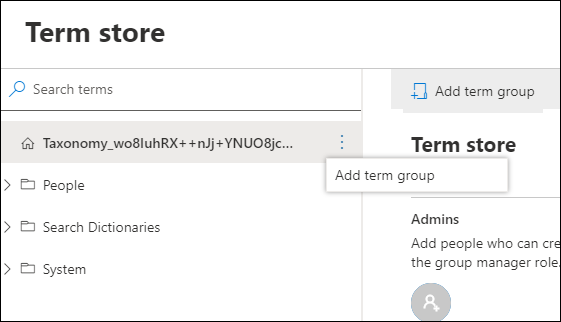
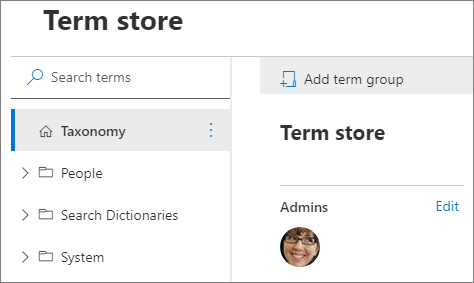
MMS content updates

diff --git a/SharePoint/SharePointOnline/set-up-new-group-for-term-sets.md b/SharePoint/SharePointOnline/set-up-new-group-for-term-sets.md
@@ -1,13 +1,11 @@
 ---
 title: "Set up a new group for term sets"
-ms.reviewer: vrchowdh
+ms.reviewer: anfra
 ms.author: mikeplum
 author: MikePlumleyMSFT
 manager: pamgreen
-ms.date: 5/27/2020
 audience: End User
-f1.keywords:
-- NOCSH
+f1.keywords: NOCSH
 ms.topic: article
 ms.service: sharepoint-online
 localization_priority: Normal
@@ -21,29 +19,23 @@ description: "Learn how easy it is to create a group for a collection of terms i
 
 # Set up a new group for term sets
 
-In the Term Store Management Tool, a group is a set of term sets that all share common security requirements. Only users who are designated as Contributors to a specific group can manage term sets that belong to the group or create new term sets within it. Organizations should create unique groups for term sets that will have unique access or security needs. For info about how to create a term set, see [Set up a new term set](set-up-new-term-set.md). 
+A term group is a set of term sets that all share common security requirements. Only users who are designated as contributors to a specific group can manage term sets that belong to the group or create new term sets within it. Organizations should create unique groups for term sets that will have unique access or security needs. For information about how to create a term set, see [Set up a new term set](set-up-new-term-set.md). 
   
 > [!IMPORTANT]
->  To create a new term set group, you must be a Term Store admin. 
-  
-![Screenshot of navigation pane in Term Store Management Tool, showing the New Group menu item selected](media/add-term-group.png)
+>  To create a new term set group, you must be a term store admin. 
   
 To set up a new group for term sets, follow these steps.
    
-1. [Open the Term Store management tool](open-term-store-management-tool.md).
+1. In the SharePoint admin center, under **Content services**, click **Term store**.
     
-2. In the tree view pane, select the taxonomy. Then point to it, select the arrow that appears, and then select **Add term group**.
-    
+2. In the right pane, click **Add term group**.
+
+    ![Screenshot of navigation pane in Term Store Management Tool, showing the New Group menu item](media/add-term-group.png)    
+
 3. Enter a name for your new group, and then press ENTER.
     
-4. To edit the Term group **name** and **description**, select **Edit**. The **Edit name and description** panel appears. Enter a description to help users understand the purpose of this term group. Select **Save**. 
+4. To edit the Term group **name** and **description**, select **Edit** next to the group name. The **Edit name and description** panel appears. Enter a description to help users understand the purpose of this term group. Select **Save**. 
     
-5. To edit **Group Managers**, select **Edit**. The **Edit admins** panel appears. Enter a name or email address to create new term groups, and set and assign users to the group manager role. Select **Save**.
-    
-6.  To edit **Contributors**, select **Edit**. The **Edit admins** panel appears. Enter a name or email address to create new term groups, and set and assign users to the group manager role. Select **Save**.
-    
-7. To copy the unique identifier for this term group, select **Copy**.
-    
-> [!NOTE]
->  To add term set, rename term group, delete term group, or import a term set, to the right of the group name, select the **More options** (vertical ellipsis icon), and make your selection. You can only delete empty groups. 
+5. To edit the group managers or contributors, select **Edit** next to **Group managers**. The **Edit admins** panel appears. Enter the names or email addresses of the people you want to add, assign them to a role, and then click **Save**.
   
+7. To copy the unique identifier for this term group, select **Copy**.
